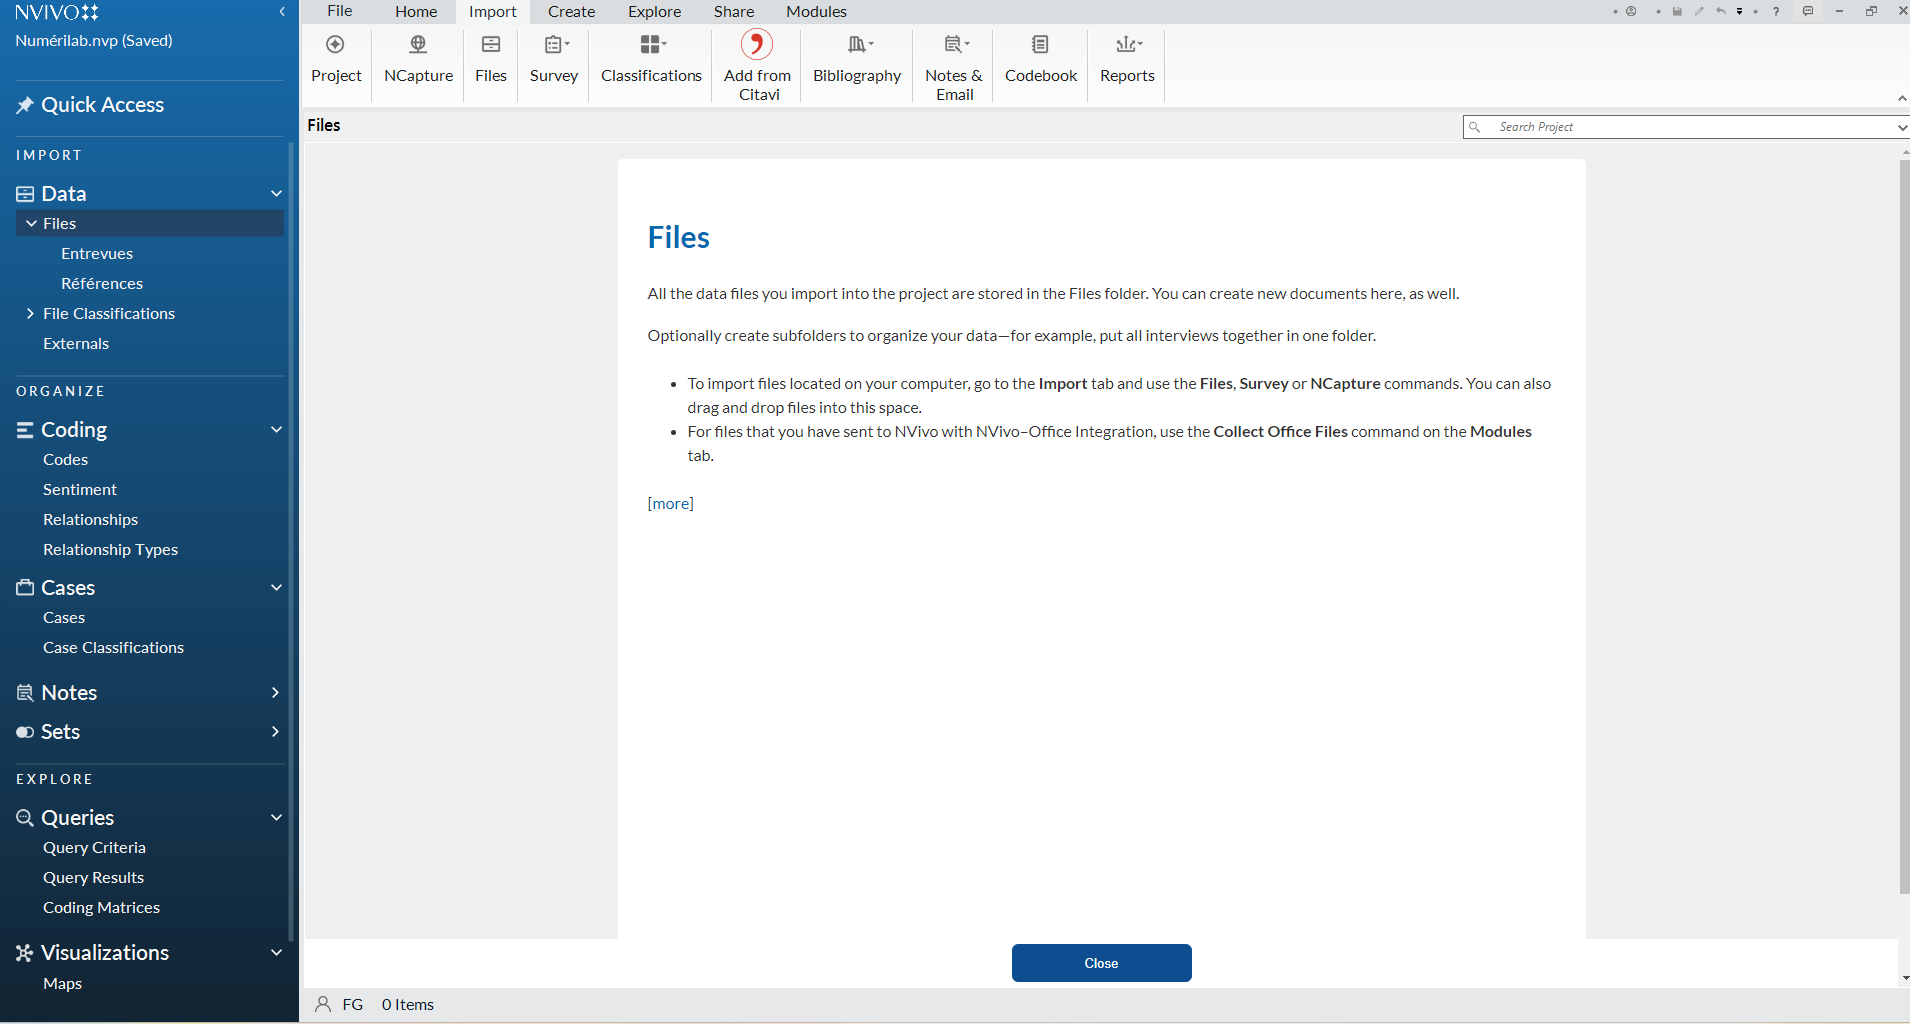
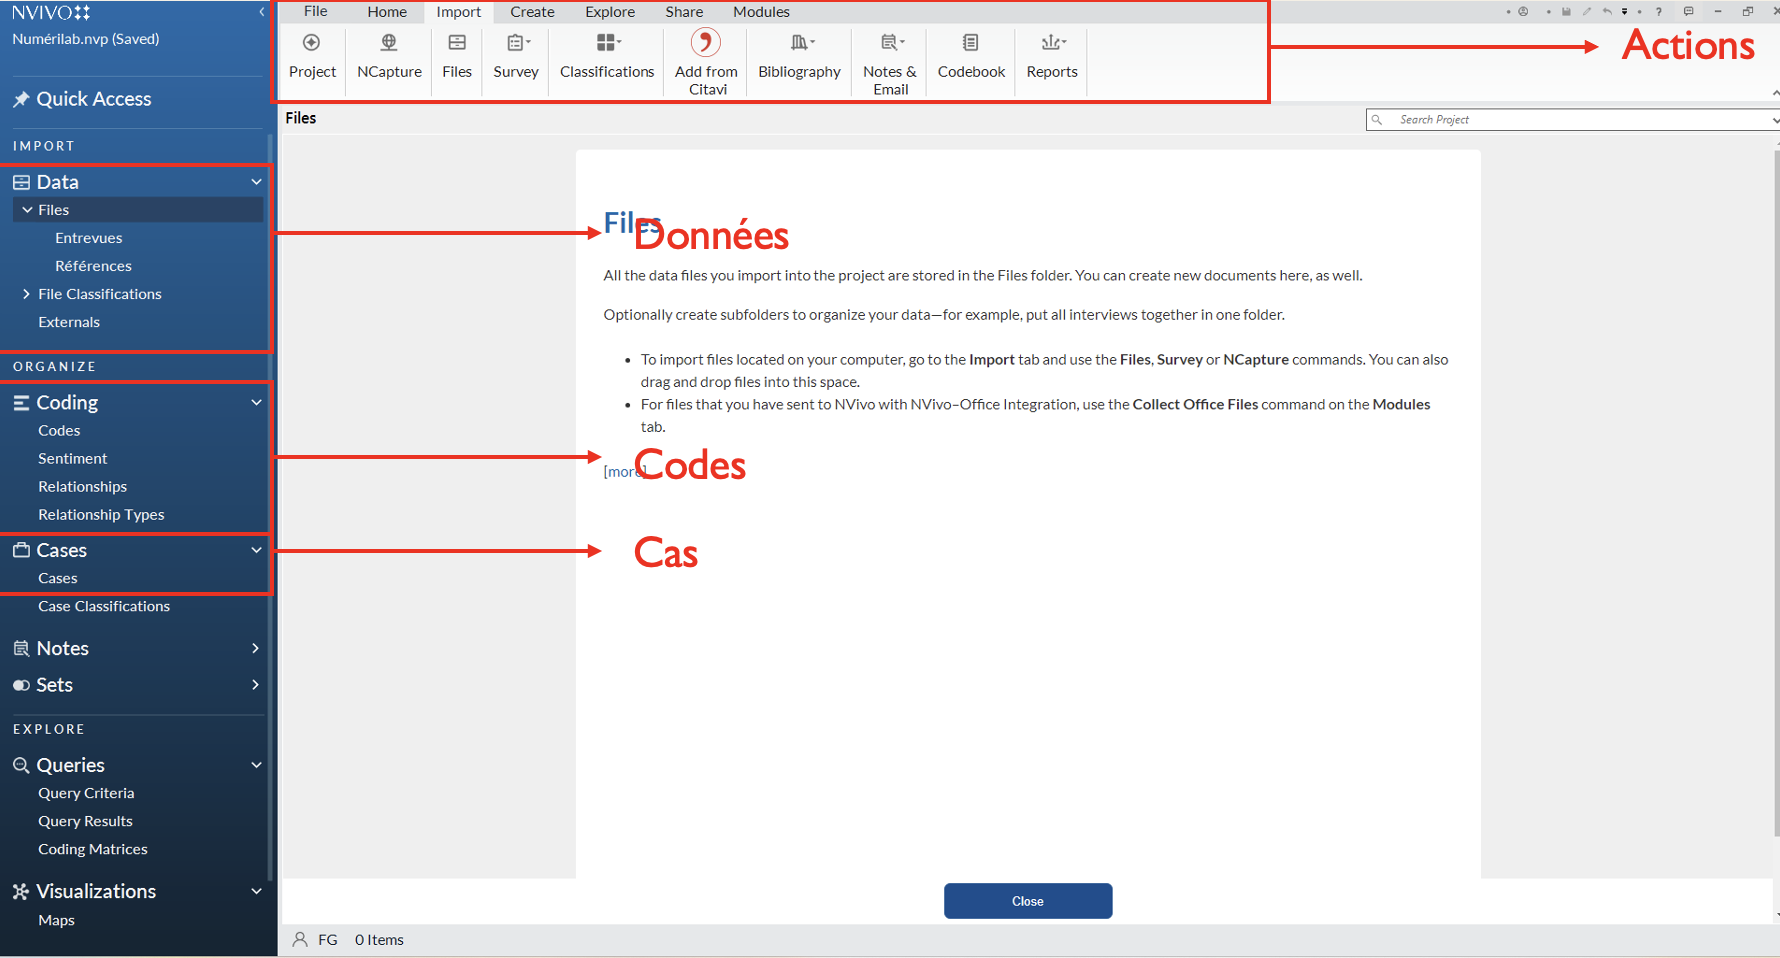
Corriger des petits détails

diff --git a/_ateliers/2026-10-08-ZoteroNVivo.md b/_ateliers/2026-10-08-ZoteroNVivo.md
@@ -142,8 +142,6 @@ Pour l'annotation manuelle, désactiver la création automatique de marqueurs
 
 ![Interface de NVivo, avec les zones annotées : Actions (ruban), Données, Codes, Cas](/assets/ZoteroNVivo/slide11-1.png)
 
-Annotations sur la capture : **Actions** (ruban), **Données**, **Codes**, **Cas**.
-
 ---
 
 ## 11. Transfert de bibliothèques — Zotero → NVivo
@@ -153,7 +151,7 @@ Annotations sur la capture : **Actions** (ruban), **Données**, **Codes**, **Cas
 
 ---
 
-## 12. (Sans titre) — Importation dans NVivo
+## 12. Importation dans NVivo
 
 ![Onglet Import de NVivo, menu Bibliography](/assets/ZoteroNVivo/slide13-1.png)
 ![Fenêtre « Import from Zotero » de NVivo](/assets/ZoteroNVivo/slide13-2.png)
@@ -170,8 +168,6 @@ Les articles n'apparaissent pas tous dans la section « Files » ?
 
 ![Importation dans NVivo, section Files](/assets/ZoteroNVivo/slide14-1.png)
 ![Préférences de Zotero pour le renommage des fichiers, avec l'annotation « Réduire la longueur des noms »](/assets/ZoteroNVivo/slide14-2.png)
-
-Annotation sur la capture : **Réduire la longueur des noms**.
 
 ---
 
